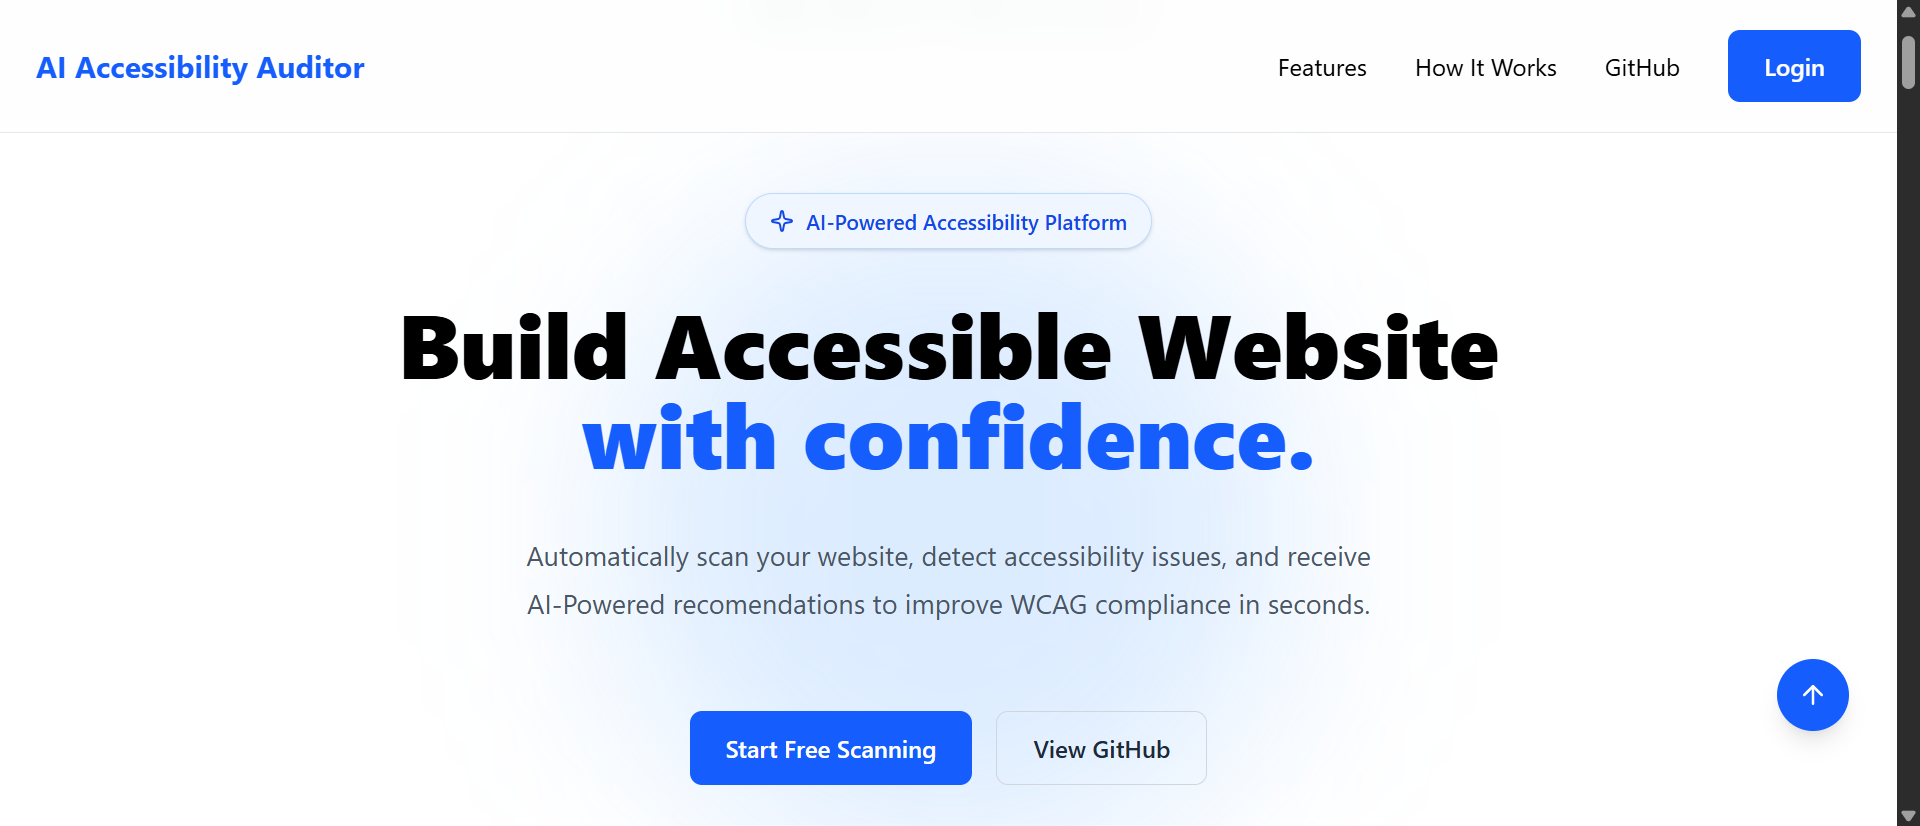
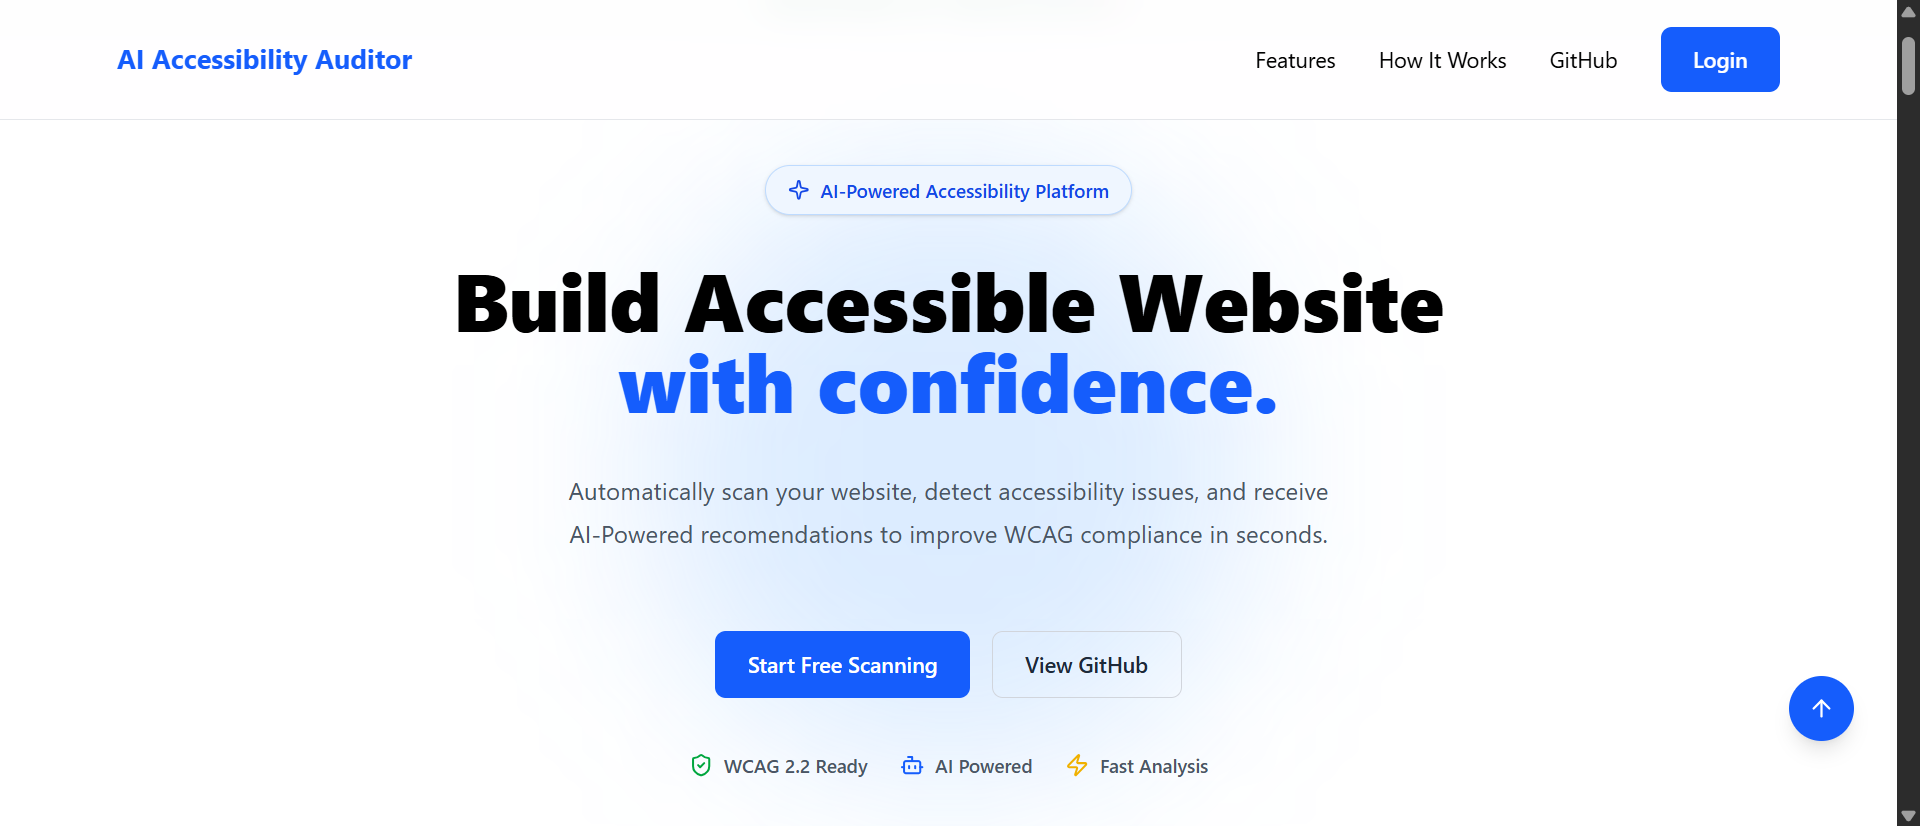
Few edits in README

diff --git a/README.md b/README.md
@@ -180,7 +180,7 @@ npm install
 npm run dev
 ```
 
-**Frontend will start at:**
+*Frontend will start at:*
 ```
 http://localhost:5173
 ```
@@ -219,6 +219,7 @@ http://localhost:5173
 **Suryakanta Mohanty**
 
 GitHub: [suryakanta-mohanty ↗](https://github.com/suryakanta-mohanty)
+
 LinkedIn: [suryakanta-mohanty ↗](https://www.linkedin.com/in/suryakanta-mohanty/)
 
 *Thank you 😀*